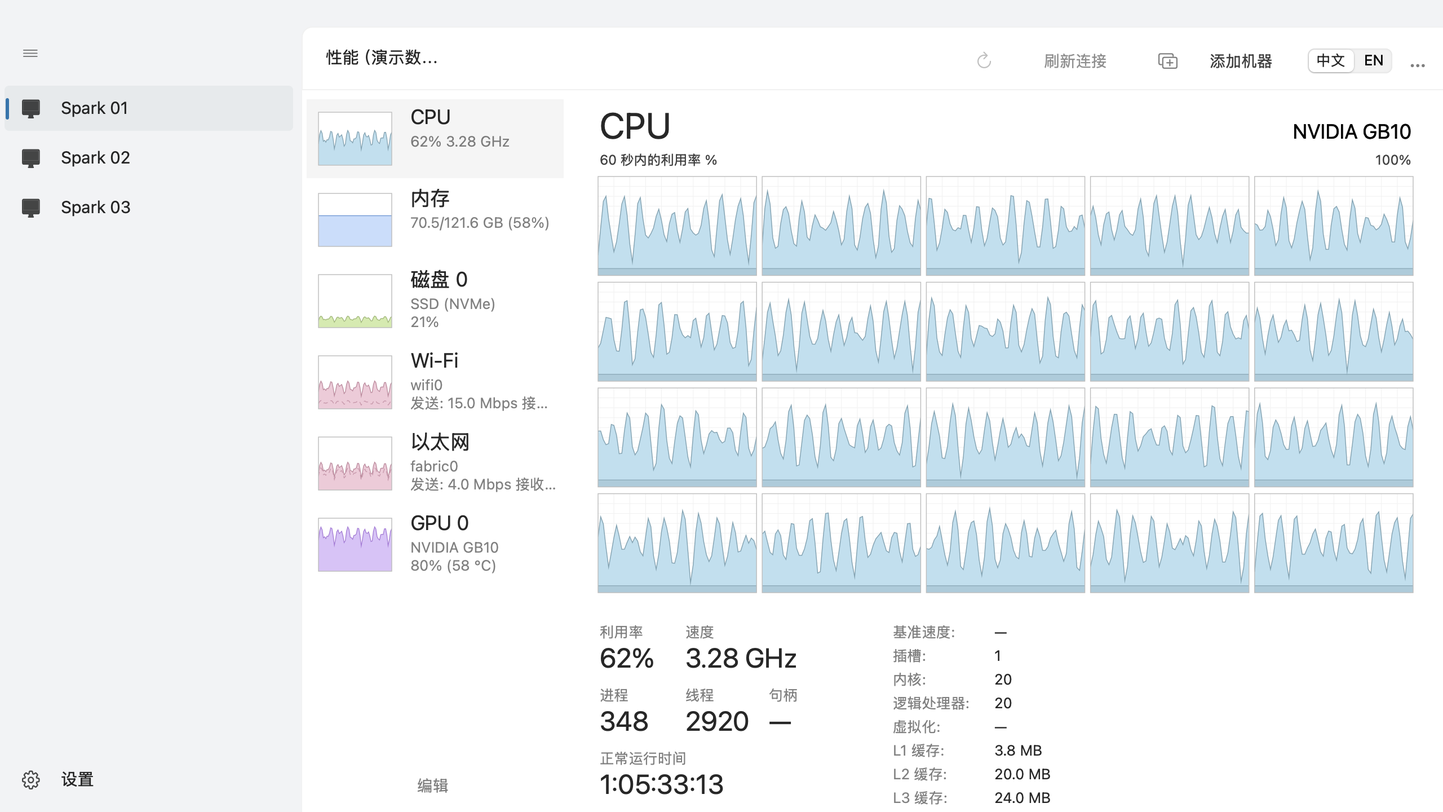
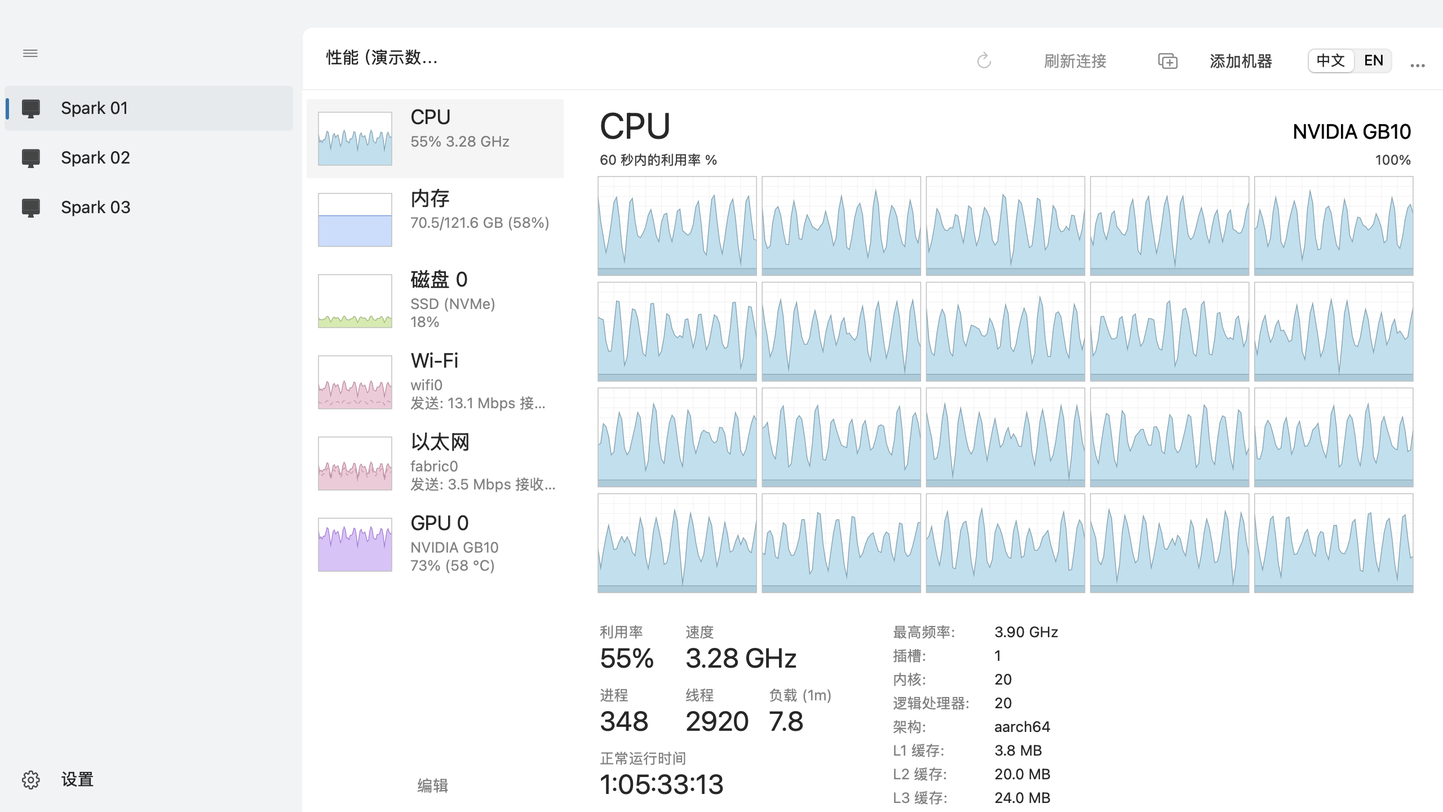
fix: show available native metrics instead of empty Windows fields

diff --git a/Sources/SparkMonitor/PerformancePane.swift b/Sources/SparkMonitor/PerformancePane.swift
@@ -54,14 +54,17 @@ import AppKit
     var windows: Bool { state.inventory?.platform == "windows" }
     var engineKeys: [String] {
         let reported = (selected?.metadata.keys.filter { $0.hasPrefix("engine:") } ?? []).sorted { (Int($0.dropFirst(7)) ?? 0) < (Int($1.dropFirst(7)) ?? 0) }
-        return windows && !reported.isEmpty ? reported : ["engine:3d", "engine:copy", "encoder", "decoder"]
+        return !reported.isEmpty ? reported : ["usage", "memoryActivity", "encoder", "decoder"]
     }
+    var gpuActivityCount: Int { localMac ? min(4, engineKeys.count) : 4 }
     func engineTitle(_ key: String) -> String {
-        if windows, let title = selected?.metadata[key] { return title }
-        return ["engine:3d": "3D", "engine:copy": "Copy", "encoder": "Video Encode", "decoder": "Video Decode"][key] ?? "—"
+        if let title = selected?.metadata[key] { return title }
+        return ["usage": tr("总体利用率", "GPU utilization"), "memoryActivity": tr("内存读写活动", "Memory activity"), "encoder": "Video Encode", "decoder": "Video Decode"][key] ?? "—"
     }
     var gpuMemoryFields: [String] {
         guard let device = selected, device.kind == .gpu else { return [] }
+        if localMac { return ["allocated"] }
+        if !windows { return [] }
         let dedicated = state.latest?.devices[device.id]?.value("dedicatedTotal")
             ?? Double(device.metadata["dedicatedTotal"] ?? "")
             ?? state.history.reversed().lazy.compactMap { $0.snapshot?.devices[device.id]?.value("dedicatedTotal") }.first
@@ -69,7 +72,7 @@ import AppKit
     }
     var selectedEngines: [String] {
         let saved = selected.flatMap { state.profile.gpuGraphs?[$0.id] } ?? []
-        return (0..<4).map { i in i < saved.count && engineKeys.contains(saved[i]) ? saved[i] : (i < engineKeys.count ? engineKeys[i] : "") }
+        return (0..<gpuActivityCount).map { i in i < saved.count && engineKeys.contains(saved[i]) ? saved[i] : (i < engineKeys.count ? engineKeys[i] : "") }
     }
     @objc func chooseEngine(_ menu: NSPopUpButton) {
         guard let id = selected?.id, let key = menu.selectedItem?.representedObject as? String else { return }
@@ -101,7 +104,7 @@ import AppKit
             chartTitles = []; chartScales = []; chartTimes = []; chartZeros = []
             if let device = selected {
                 let cores = Int(device.metadata["logicalProcessors"] ?? device.metadata["cores"] ?? "20") ?? 20
-                let count = device.kind == .cpu && state.profile.logicalCPU ? cores : device.kind == .disk ? 2 : device.kind == .gpu ? 4 + gpuMemoryFields.count : 1
+                let count = device.kind == .cpu && state.profile.logicalCPU ? cores : device.kind == .disk ? 2 : device.kind == .gpu ? gpuActivityCount + gpuMemoryFields.count : 1
                 for i in 0..<count {
                     let chart = ChartView(); chart.kind = device.kind; chart.color = Style.color(device.kind)
                     chart.stacked = device.kind == .cpu; chart.logical = state.profile.logicalCPU
@@ -118,7 +121,7 @@ import AppKit
                     scale.alignment = .right; zero.alignment = .right
                     [title, scale, time, zero].forEach(content.addSubview)
                     chartTitles.append(title); chartScales.append(scale); chartTimes.append(time); chartZeros.append(zero)
-                    if device.kind == .gpu && i < 4 {
+                    if device.kind == .gpu && i < gpuActivityCount {
                         let menu = NSPopUpButton(); menu.isBordered = false; menu.font = .systemFont(ofSize: 12)
                         menu.target = self; menu.action = #selector(chooseEngine(_:)); menu.tag = i
                         for key in engineKeys {
@@ -149,14 +152,16 @@ import AppKit
             switch d.kind {
             case .cpu: row.subtitle.stringValue = percent + " " + number(m?.value("frequency").map { $0 / 1000 }, " GHz", digits: 2)
             case .memory: row.subtitle.stringValue = memoryPair(m?.value("used"), m?.value("total")) + " (\(percent))"
-            case .disk: row.subtitle.stringValue = (d.metadata["type"] ?? "SSD (NVMe)") + "\n" + percent
+            case .disk:
+                let detail = localMac ? tr("读 ", "R ") + bytes(m?.value("read"), perSecond: true) + "\n" + tr("写 ", "W ") + bytes(m?.value("write"), perSecond: true) : (d.metadata["type"] ?? "SSD (NVMe)") + "\n" + percent
+                row.subtitle.stringValue = detail
             case .network:
                 row.subtitle.stringValue = d.name + "\n" + tr("发送: ", "S: ") + bitRate(m?.value("send")) + " " + tr("接收: ", "R: ") + bitRate(m?.value("receive"))
             case .gpu: row.subtitle.stringValue = d.model + "\n" + percent + (m?.value("temperature").map { " (" + number($0, " °C", digits: 0) + ")" } ?? "")
             }
-            let key = d.kind == .network ? "receive" : "usage"
-            row.chart.points = series(state, device: d, key: key, second: d.kind == .network ? "send" : nil)
-            row.chart.ceiling = d.kind == .network ? rateCeiling(row.chart.points, multiplier: 8) / 8 : 100
+            let key = d.kind == .network ? "receive" : (localMac && d.kind == .disk ? "read" : "usage")
+            row.chart.points = series(state, device: d, key: key, second: d.kind == .network ? "send" : (localMac && d.kind == .disk ? "write" : nil))
+            row.chart.ceiling = d.kind == .network ? rateCeiling(row.chart.points, multiplier: 8) / 8 : (localMac && d.kind == .disk ? rateCeiling(row.chart.points) : 100)
             row.chart.needsDisplay = true; row.needsDisplay = true
             row.setAccessibilityLabel(row.nameLabel.stringValue + ", " + row.subtitle.stringValue)
         }
@@ -182,36 +187,44 @@ import AppKit
                 case .disk: caption = i == 0 ? tr("活动时间", "Active time") : tr("磁盘传输速率", "Disk transfer rate"); if i == 1 { key = "read"; second = "write" }
                 case .network: key = "receive"; second = "send"; caption = tr("吞吐量", "Throughput")
                 case .gpu:
-                    if i < 4 {
+                    if i < gpuActivityCount {
                         key = selectedEngines[i]; caption = engineTitle(key)
                         let index = engineKeys.firstIndex(of: key) ?? -1
                         if engineMenus[i].indexOfSelectedItem != index { engineMenus[i].selectItem(at: index) }
                     } else {
-                        let field = gpuMemoryFields[i - 4]
-                        key = field + "Used"
-                        caption = field == "dedicated" ? tr("专用 GPU 内存使用量", "Dedicated GPU memory usage") : tr("共享 GPU 内存使用量", "Shared GPU memory usage")
+                        let field = gpuMemoryFields[i - gpuActivityCount]
+                        key = field == "allocated" ? field : field + "Used"
+                        caption = field == "allocated" ? tr("GPU 驱动内存", "GPU driver memory") : (field == "dedicated" ? tr("专用 GPU 内存使用量", "Dedicated GPU memory usage") : tr("共享 GPU 内存使用量", "Shared GPU memory usage"))
                     }
                 }
+                if localMac && d.kind == .disk && i == 0 { key = "operations"; caption = tr("磁盘活动（IOPS）", "Disk activity (IOPS)") }
                 let chartMetric = state.latest?.devices[d.id]
                 chart.points = series(state, device: d, key: key, second: second, core: chart.coreIndex)
-                let memoryChart = d.kind == .memory || (d.kind == .gpu && i >= 4)
+                let memoryChart = d.kind == .memory || (d.kind == .gpu && i >= gpuActivityCount)
                 chart.toolTip = chart.coreIndex.map { "CPU \($0)" }
                 if d.kind == .network {
                     chart.toolTip = tr("实线：接收；虚线：发送。", "Solid: receive; dashed: send.")
                 }
                 var capacity: Double?
                 if memoryChart {
-                    let capacityKey = d.kind == .gpu ? gpuMemoryFields[i - 4] + "Total" : "total"
-                    capacity = chartMetric?.value(capacityKey) ?? Double(d.metadata[capacityKey] ?? "")
-                        ?? state.history.reversed().lazy.compactMap { $0.snapshot?.devices[d.id]?.value(capacityKey) }.first
+                    if key == "allocated" {
+                        // The axis is a range for the observed allocation, not a claimed GPU memory limit.
+                        let peak = max(1_048_576, chart.points.compactMap(\.total).max() ?? 0)
+                        capacity = pow(2, ceil(log2(peak)))
+                    } else {
+                        let capacityKey = d.kind == .gpu ? gpuMemoryFields[i - gpuActivityCount] + "Total" : "total"
+                        capacity = chartMetric?.value(capacityKey) ?? Double(d.metadata[capacityKey] ?? "")
+                            ?? state.history.reversed().lazy.compactMap { $0.snapshot?.devices[d.id]?.value(capacityKey) }.first
+                    }
                     chart.ceiling = capacity ?? 1
                     if capacity == nil { chart.points = []; chart.unavailable = "—" }
                 }
                 else if d.kind == .network { chart.ceiling = rateCeiling(chart.points, multiplier: 8) / 8 }
-                else if d.kind == .disk && i == 1 { chart.ceiling = rateCeiling(chart.points) }
+                else if d.kind == .disk && (i == 1 || localMac) { chart.ceiling = rateCeiling(chart.points) }
                 else { chart.ceiling = 100 }
                 chartTitles[i].stringValue = caption
                 chartScales[i].stringValue = memoryChart ? bytes(capacity) : d.kind == .network ? bitRate(chart.ceiling) : d.kind == .disk && i == 1 ? bytes(chart.ceiling, perSecond: true) : d.kind == .gpu ? number(chartMetric?.value(key), "%", digits: 0) : "100%"
+                if localMac && d.kind == .disk && i == 0 { chartScales[i].stringValue = number(chart.ceiling, " IOPS", digits: 0) }
                 chartTimes[i].stringValue = tr("60 秒", "60 seconds")
                 let current = chart.coreIndex.flatMap { c in chartMetric?.cores?.first { ($0["index"] ?? nil) == Double(c) }?["usage"] ?? nil } ?? chartMetric?.value(key)
                 chart.setAccessibilityLabel((chart.coreIndex.map { "CPU \($0)" } ?? caption) + ", " + number(current))
@@ -259,19 +272,21 @@ import AppKit
         switch d.kind {
         case .cpu:
             stat(tr("利用率", "Utilization"), number(v("usage"), "%", digits: 0), x: 0, y: 0, w: 68)
-            stat(tr("速度", "Speed"), number(v("frequency").map { $0 / 1000 }, " GHz", digits: 2), x: 76, y: 0, w: 148)
+            stat(localMac ? tr("性能核速度", "P-core speed") : tr("速度", "Speed"), number(v("frequency").map { $0 / 1000 }, " GHz", digits: 2), x: 76, y: 0, w: 148)
             stat(tr("进程", "Processes"), number(v("processes"), digits: 0), x: 0, y: 56, w: 68)
             stat(tr("线程", "Threads"), number(v("threads"), digits: 0), x: 76, y: 56, w: 68)
-            stat(tr("句柄", "Handles"), number(v("handles"), digits: 0), x: 150, y: 56, w: 103)
+            if localMac { stat(tr("能效核速度", "E-core speed"), number(v("efficiencyFrequency").map { $0 / 1000 }, " GHz", digits: 2), x: 150, y: 56, w: 103) }
+            else { stat(windows ? tr("句柄", "Handles") : tr("负载 (1m)", "Load (1m)"), number(v(windows ? "handles" : "load"), digits: windows ? 0 : 1), x: 150, y: 56, w: 103) }
             let uptime = state.latest.map { Int($0.uptime) }
             let duration = uptime.map { String(format: "%d:%02d:%02d:%02d", $0 / 86400, $0 / 3600 % 24, $0 / 60 % 60, $0 % 60) } ?? "—"
             stat(tr("正常运行时间", "Up time"), duration, x: 0, y: 112, w: 225)
             factsX = 260
             let virtualization = d.metadata["virtualization"].map { $0.lowercased() == "true" ? tr("已启用", "Enabled") : tr("已禁用", "Disabled") } ?? "—"
-            facts = [(tr("基准速度", "Base speed"), number(d.metadata["baseFrequency"].flatMap(Double.init).map { $0 / 1000 }, " GHz", digits: 2)),
+            let frequencyKey = d.metadata["baseFrequency"] != nil ? "baseFrequency" : "maxFrequency"
+            facts = [(frequencyKey == "baseFrequency" ? tr("基准速度", "Base speed") : tr("最高频率", "Maximum clock"), number(d.metadata[frequencyKey].flatMap(Double.init).map { $0 / 1000 }, " GHz", digits: 2)),
                      (tr("插槽", "Sockets"), meta("sockets")), (tr("内核", "Cores"), meta("cores")),
                      (tr("逻辑处理器", "Logical processors"), d.metadata["logicalProcessors"] ?? meta("cores")),
-                     (tr("虚拟化", "Virtualization"), virtualization)]
+                     (d.metadata["virtualization"] != nil ? tr("虚拟化", "Virtualization") : tr("架构", "Architecture"), d.metadata["virtualization"] != nil ? virtualization : meta("architecture"))]
             for level in 1...3 where d.metadata["cacheL\(level)"] != nil {
                 facts.append(("L\(level) " + tr("缓存", "cache"), bytes(d.metadata["cacheL\(level)"].flatMap(Double.init))))
             }
@@ -279,23 +294,31 @@ import AppKit
             let compressed = v("compressed")
             stat(compressed == nil ? tr("使用中", "In use") : tr("使用中（已压缩）", "In use (Compressed)"), bytes(v("used")) + (compressed.map { " (" + bytes($0) + ")" } ?? ""), x: 0, y: 0, w: 195)
             stat(tr("可用", "Available"), bytes(v("available")), x: 196, y: 0, w: 120)
-            stat(tr("已提交", "Committed"), memoryPair(v("committed"), v("commitLimit")), x: 0, y: 56, w: 180)
+            stat(localMac ? tr("App 内存", "App memory") : tr("已提交", "Committed"), localMac ? bytes(v("app")) : memoryPair(v("committed"), v("commitLimit")), x: 0, y: 56, w: 180)
             stat(tr("已缓存", "Cached"), bytes(v("cached")), x: 196, y: 56, w: 120)
-            stat(tr("分页池", "Paged pool"), bytes(v("paged")), x: 0, y: 112, w: 180)
-            stat(tr("非分页池", "Non-paged pool"), bytes(v("nonpaged")), x: 136, y: 112, w: 155)
+            stat(windows ? tr("分页池", "Paged pool") : (localMac ? tr("联动内存", "Wired memory") : tr("已用 Swap", "Swap used")), bytes(v(windows ? "paged" : (localMac ? "wired" : "swapUsed"))), x: 0, y: 112, w: 180)
+            stat(windows ? tr("非分页池", "Non-paged pool") : (localMac ? tr("已用 Swap", "Swap used") : tr("Swap 总量", "Swap total")), bytes(v(windows ? "nonpaged" : (localMac ? "swapUsed" : "swapTotal"))), x: 196, y: 112, w: 120)
             factsX = 320; keyWidth = zh ? 126 : 153
             facts = [(tr("速度", "Speed"), d.metadata["speed"].map { $0 + " MT/s" } ?? "—"), (tr("已使用的插槽", "Slots used"), meta("slots")),
                      (tr("外形规格", "Form factor"), meta("form") == "Other" ? tr("其他", "Other") : meta("form")),
                      (tr("为硬件保留的内存", "Hardware reserved"), bytes(v("reserved")))]
+            if localMac {
+                facts = [(tr("内存架构", "Memory model"), tr("统一内存", "Unified memory")),
+                         (tr("可清除内存", "Purgeable"), bytes(v("purgeable"))), (tr("Swap 总量", "Swap total"), bytes(v("swapTotal")))]
+            } else if !windows {
+                facts = [(tr("类型", "Type"), d.model), (tr("内核缓存", "Kernel slab"), bytes(v("slab"))),
+                         (tr("可回收内核缓存", "Reclaimable slab"), bytes(v("reclaimable"))), (tr("共享页", "Shared pages"), bytes(v("shared"))), (tr("待写回", "Dirty pages"), bytes(v("dirty")))]
+            }
         case .disk:
-            stat(tr("活动时间", "Active time"), number(v("usage"), "%", digits: 0), x: 0, y: 0, w: 76)
-            stat(tr("平均响应时间", "Average response time"), number(v("latency"), tr(" 毫秒", " ms")), x: 78, y: 0, w: 194)
+            stat(localMac ? tr("每秒操作数", "IOPS") : tr("活动时间", "Active time"), localMac ? number(v("operations"), digits: 0) : number(v("usage"), "%", digits: 0), x: 0, y: 0, w: localMac ? 112 : 76)
+            stat(tr("平均响应时间", "Average response time"), number(v("latency"), tr(" 毫秒", " ms")), x: localMac ? 120 : 78, y: 0, w: 194)
             stat(tr("读取速度", "Read speed"), bytes(v("read"), perSecond: true), x: 8, y: 56, w: 151)
             stat(tr("写入速度", "Write speed"), bytes(v("write"), perSecond: true), x: 167, y: 56, w: 150)
             factsX = 315; keyWidth = zh ? 86 : 116
             facts = [(tr("容量", "Capacity"), bytes(v("capacity"))), (tr("已格式化", "Formatted"), bytes(v("total"))),
                      (tr("系统磁盘", "System disk"), d.metadata["system"].map { $0 == "true" ? tr("是", "Yes") : tr("否", "No") } ?? "—"),
                      (tr("页面文件", "Page file"), d.metadata["pagefile"].map { $0 == "true" ? tr("是", "Yes") : tr("否", "No") } ?? "—"), (tr("类型", "Type"), meta("type"))]
+            if !windows { facts.removeAll { $0.0 == tr("页面文件", "Page file") }; facts.append((tr("可用空间", "Available space"), bytes(v("free")))) }
         case .network:
             stat(tr("发送", "Send"), bitRate(v("send")), x: 8, y: 0, w: 136)
             stat(tr("接收", "Receive"), bitRate(v("receive")), x: 8, y: 56, w: 136)
@@ -315,12 +338,15 @@ import AppKit
                 let total = v("dedicatedTotal").flatMap { a in v("sharedTotal").map { a + $0 } }
                 stat(tr("GPU 内存", "GPU memory"), memoryPair(used, total), x: 0, y: 56, w: 158)
             }
-            stat(tr("共享 GPU 内存", "Shared GPU memory"), memoryPair(v("sharedUsed"), v("sharedTotal")), x: 160, y: dedicated ? 56 : 0, w: 195)
+            if localMac { stat(tr("GPU 驱动内存", "GPU driver memory"), bytes(v("allocated")), x: 160, y: 0, w: 195) }
+            else if gpuMemoryFields.contains("shared") { stat(tr("共享 GPU 内存", "Shared GPU memory"), memoryPair(v("sharedUsed"), v("sharedTotal")), x: 160, y: dedicated ? 56 : 0, w: 195) }
             if let temperature = v("temperature") { stat(tr("GPU 温度", "GPU temperature"), number(temperature, " °C", digits: 0), x: 0, y: dedicated ? 112 : 56, w: 155) }
             factsX = 363; keyWidth = zh ? 103 : 110
             facts = [(tr("驱动版本", "Driver version"), localMac ? "—" : meta("driver")), (tr("驱动日期", "Driver date"), meta("driverDate")),
                      (tr("DirectX 版本", "DirectX version"), meta("directX")), (tr("物理位置", "Physical location"), meta("pci"))]
+            if localMac { facts = [(tr("GPU 核心", "GPU cores"), meta("cores")), (tr("内存架构", "Memory model"), tr("CPU / GPU 共享", "CPU / GPU shared")), (tr("驱动", "Driver"), meta("driver"))] }
         }
+        facts.removeAll { $0.1 == "—" || $0.1.isEmpty }
         for (i, fact) in facts.enumerated() {
             let title = add(fact.0 + ":", x: factsX, y: CGFloat(i) * 21, w: keyWidth, secondary: true)
             let value = add(fact.1, x: factsX + keyWidth + 4, y: CGFloat(i) * 21, w: max(50, width - factsX - keyWidth - 4))
@@ -380,10 +406,11 @@ import AppKit
         case .gpu:
             let half = (w - 10) / 2
             let gpuTop = top + 8
-            let graphHeight = gpuMemoryFields.count == 2 ? (h - 372) / 4 : (h - 340) / 3
-            frames = (0..<4).map { NSRect(x: CGFloat($0 % 2) * (half + 10), y: gpuTop + CGFloat($0 / 2) * (graphHeight + 32), width: half, height: graphHeight) }
-            frames.append(NSRect(x: 0, y: gpuTop + 2 * (graphHeight + 32), width: w, height: graphHeight))
-            if gpuMemoryFields.count == 2 { frames.append(NSRect(x: 0, y: frames[4].maxY + 32, width: w, height: graphHeight)) }
+            let graphHeight = (h - (gpuMemoryFields.count == 2 ? 372 : 340)) / CGFloat(2 + gpuMemoryFields.count)
+            frames = (0..<gpuActivityCount).map { NSRect(x: CGFloat($0 % 2) * (half + 10), y: gpuTop + CGFloat($0 / 2) * (graphHeight + 32), width: half, height: graphHeight) }
+            for index in gpuMemoryFields.indices {
+                frames.append(NSRect(x: 0, y: gpuTop + CGFloat(2 + index) * (graphHeight + 32), width: w, height: graphHeight))
+            }
             newStatsTop = frames.last!.maxY + 28
         default: break
         }
@@ -393,7 +420,7 @@ import AppKit
             chart.frame = frames[i]
             let title = chartTitles[i], scale = chartScales[i], time = chartTimes[i], zero = chartZeros[i]
             let logical = kind == .cpu && state.profile.logicalCPU
-            title.isHidden = (logical && i != 0) || (kind == .gpu && i < 4); scale.isHidden = logical && i != charts.count - 1
+            title.isHidden = (logical && i != 0) || (kind == .gpu && i < gpuActivityCount); scale.isHidden = logical && i != charts.count - 1
             if logical {
                 title.frame = NSRect(x: 0, y: top - 22, width: w * 0.7, height: 19)
                 scale.frame = NSRect(x: w * 0.7, y: top - 22, width: w * 0.3, height: 19)

diff --git a/Sources/SparkMonitor/LocalMacCollector.swift b/Sources/SparkMonitor/LocalMacCollector.swift
@@ -152,7 +152,20 @@ import CoreWLAN
             let pidCount = pids.withUnsafeMutableBytes { proc_listallpids($0.baseAddress, Int32($0.count)) }
             if pidCount >= 0 { cpuValues["processes"] = Double(pidCount) }
         }
+        var processorSet: processor_set_name_t = 0
+        if processor_set_default(hostPort, &processorSet) == KERN_SUCCESS {
+            defer { mach_port_deallocate(mach_task_self_, processorSet) }
+            var load = processor_set_load_info_data_t()
+            var loadCount = mach_msg_type_number_t(MemoryLayout<processor_set_load_info_data_t>.size / MemoryLayout<integer_t>.size)
+            let result = withUnsafeMutablePointer(to: &load) { pointer in
+                pointer.withMemoryRebound(to: integer_t.self, capacity: Int(loadCount)) {
+                    processor_set_statistics(processorSet, PROCESSOR_SET_LOAD_INFO, $0, &loadCount)
+                }
+            }
+            if result == KERN_SUCCESS { cpuValues["threads"] = Double(load.thread_count) }
+        }
         var cpuMeta = ["architecture": sysString("hw.machine"), "cores": String(Int(sysNumber("hw.physicalcpu") ?? Double(count))), "logicalProcessors": String(count), "sockets": "1"]
+        if let available = sysNumber("kern.hv_support") { cpuMeta["virtualization"] = String(available != 0) }
         for (key, name) in [("performanceCores", "hw.perflevel0.physicalcpu"), ("efficiencyCores", "hw.perflevel1.physicalcpu")] {
             if let n = sysNumber(name) { cpuMeta[key] = String(Int(n)) }
         }
@@ -202,6 +215,13 @@ import CoreWLAN
 
         services("IOBlockStorageDriver") { driver in
             guard let raw = property(driver, "Statistics") as? [String: NSNumber] else { return }
+            var virtual = false
+            var provider: io_registry_entry_t = 0
+            if IORegistryEntryGetParentEntry(driver, kIOServicePlane, &provider) == KERN_SUCCESS {
+                defer { IOObjectRelease(provider) }
+                let protocolInfo = property(provider, "Protocol Characteristics") as? [String: Any]
+                virtual = protocolInfo?["Physical Interconnect"] as? String == "Virtual Interface"
+            }
             var child: io_iterator_t = 0
             guard IORegistryEntryGetChildIterator(driver, kIOServicePlane, &child) == KERN_SUCCESS else { return }
             defer { IOObjectRelease(child) }
@@ -216,9 +236,9 @@ import CoreWLAN
                 var values: [String: Double?] = ["capacity": (property(media, "Size") as? NSNumber)?.doubleValue,
                     "read": rate(id, "Bytes (Read)", current, elapsed), "write": rate(id, "Bytes (Write)", current, elapsed)]
                 // IOStorage request service times overlap and are not disk busy time.
-                if let readOps = rate(id, "Operations (Read)", current, elapsed), let writeOps = rate(id, "Operations (Write)", current, elapsed), readOps + writeOps > 0,
+                if let readOps = rate(id, "Operations (Read)", current, elapsed), let writeOps = rate(id, "Operations (Write)", current, elapsed),
                    let readTime = rate(id, "Total Time (Read)", current, elapsed), let writeTime = rate(id, "Total Time (Write)", current, elapsed) {
-                    values["latency"] = (readTime + writeTime) / (readOps + writeOps) / 1_000_000
+                    values["latency"] = readOps + writeOps > 0 ? (readTime + writeTime) / (readOps + writeOps) / 1_000_000 : 0
                 }
                 if let reads = rate(id, "Operations (Read)", current, elapsed), let writes = rate(id, "Operations (Write)", current, elapsed) {
                     values["operations"] = reads + writes
@@ -229,7 +249,7 @@ import CoreWLAN
                     values["free"] = space.volumeAvailableCapacity.map(Double.init)
                 }
                 devices.append(HardwareDevice(id: id, kind: .disk, name: bsd, model: String(cString: name), defaultVisible: true,
-                    metadata: ["type": system ? "SSD (APFS)" : "Storage", "system": String(system), "index": String(devices.filter { $0.kind == .disk }.count)]))
+                    metadata: ["type": virtual ? "Disk image" : (system ? "SSD (APFS)" : "Storage"), "system": String(system), "index": String(devices.filter { $0.kind == .disk }.count)]))
                 metrics[id] = DeviceMetrics(values: values)
             }
         }
@@ -312,7 +332,7 @@ import CoreWLAN
                 "engine:2": stats["Tiler Utilization %"]?.doubleValue,
                 "renderer": stats["Renderer Utilization %"]?.doubleValue, "tiler": stats["Tiler Utilization %"]?.doubleValue,
                 "allocated": stats["In use system memory"]?.doubleValue]
-            let meta = ["engine:0": "GPU", "engine:1": "Renderer", "engine:2": "Tiler", "engine:3": "Video (unavailable)", "driver": property(gpu, "CFBundleIdentifier") as? String ?? "", "cores": (property(gpu, "gpu-core-count") as? NSNumber)?.stringValue ?? ""]
+            let meta = ["engine:0": "GPU", "engine:1": "Renderer", "engine:2": "Tiler", "driver": property(gpu, "CFBundleIdentifier") as? String ?? "", "cores": (property(gpu, "gpu-core-count") as? NSNumber)?.stringValue ?? ""]
             devices.append(HardwareDevice(id: id, kind: .gpu, name: "GPU", model: property(gpu, "model") as? String ?? "Apple GPU", defaultVisible: true, metadata: meta))
             metrics[id] = DeviceMetrics(values: values)
         }

diff --git a/Tests/SparkMonitorTests/ModelTests.swift b/Tests/SparkMonitorTests/ModelTests.swift
@@ -55,7 +55,7 @@ struct ModelTests {
         #expect(pane.detailScroll.contentView.bounds.origin.y == before)
         #expect(pane.details.first!.0 === field)
         pane.frame.size.height = 1000; pane.layoutSubtreeIfNeeded()
-        #expect(pane.charts.count == 5)
+        #expect(pane.charts.count == 4)
         #expect(pane.charts[0].frame.height > graphHeight)
         #expect(pane.details.allSatisfy { $0.0.frame.maxY <= pane.content.bounds.height })
     }

diff --git a/docs/metrics.md b/docs/metrics.md
@@ -2,7 +2,7 @@
 
 All reads are unprivileged. Null means unavailable; it is never converted to zero. Charts have a 60-second timestamp axis anchored to the latest received sample; redraws do not scroll ahead of the data and a retained boundary sample is clipped at the left edge; rates use remote monotonic elapsed time.
 
-The native app uses Windows Task Manager's Performance-page layout and fields for every host. A field without an equivalent source stays unavailable. Network pages show one interface-throughput chart; RDMA has no additional chart or detail rows. CPU/disk temperatures, power, load, IOPS and OS-specific memory breakdowns are not added to these pages.
+The native app keeps Windows Task Manager's Performance-page appearance and arrangement, using the actual metrics each host provides. Labels identify substitutions: Mac disks show read/write rates and IOPS, Mac memory uses App/Wired/Swap, and GPU graphs use the driver's own activity names. Metadata without a reading is omitted. Network pages retain one interface-throughput chart; RDMA has no additional chart or detail rows.
 
 | Metric | Source and calculation |
 |---|---|
@@ -26,7 +26,7 @@ Counter resets or the initial baseline yield unavailable rates. Broken streams r
 
 CPU process/thread counts are Linux process and schedulable-task counts; cache sizes are summed over distinct sysfs shared-cache groups. Disk response time is the read/write time delta divided by completed operations. Network graph labels use decimal bits per second. Memory/disk labels follow Task Manager's KB/MB/GB notation with 1,024-based scaling.
 
-GPU pages use four engine charts and dedicated/shared GPU-memory charts. Devices without dedicated memory have only the shared-memory chart. Overall utilization remains a separate statistic; it is not substituted for 3D or Copy activity. Only GPU-specific allocations can populate the memory charts. Whole-system RAM use is shown on the Memory page. Missing engine readings and GPU-memory limits remain unavailable; Windows' half-RAM shared-memory limit is not imposed on other operating systems.
+Windows GPU pages retain their engine charts and measured dedicated/shared allocations. Spark graphs use the NVIDIA driver's overall, memory-activity, encoder and decoder readings. Mac graphs use Device, Renderer and Tiler activity plus driver-wide allocated system memory. The Mac allocation chart scales to its observed range; its axis is not a hard allocation limit. Whole-system RAM use stays on the Memory page.
 
 Network metadata comes from NetworkManager (`nmcli device show`) and sysfs. Wi-Fi SSID, signal in dBm, radio frequency and actual Rx/Tx negotiated rates come from `iw dev <interface> link` without scanning or changing connections. The Wi-Fi protocol is derived from the active link's EHT/HE/VHT/MCS report, not the adapter's advertised maximum. SSID, DNS suffix/server and MAC are refreshed with inventory every 30 seconds; signal and negotiated rates update each sample. A DNS suffix and DNS server address are separate fields. IPv6 includes link-local addresses. An unconfigured DNS field remains unavailable.
 
@@ -63,7 +63,9 @@ remain unchanged; local hardware visibility/order and CPU chart mode persist.
   active frequency and show unavailable rather than an invented minimum.
   IOReport is a private system API and requires no elevated helper.
 - CPU process count uses the filled PID enumeration, rather than its buffer-size
-  estimate. Cache totals sum all performance/efficiency core groups: L1 includes
+  estimate. Live thread count comes from `PROCESSOR_SET_LOAD_INFO`; virtualization
+  availability comes from `kern.hv_support`. Peak DVFS frequency is labelled
+  maximum clock, not base speed. Cache totals sum all performance/efficiency core groups: L1 includes
   instruction and data caches per core; shared L2/L3 is counted once per group.
   Uptime and sampling intervals use the monotonic raw clock, which includes sleep.
 - Memory: estimated app pages = internal − purgeable, bounded at zero;
@@ -71,20 +73,22 @@ remain unchanged; local hardware visibility/order and CPU chart mode persist.
   remainder of physical RAM, not Linux MemAvailable. Swap is reported by sysctl.
 - Physical disks: IOBlockStorageDriver read/write byte deltas and mean request
   service time. Busy percentage is deliberately not derived by summing overlapping
-  requests. The standard active-time chart stays unavailable; the lower chart shows read/write throughput.
+  requests. The upper chart shows completed operations per second (IOPS); the
+  lower chart and sidebar show read/write throughput. Mean response time is zero
+  for a valid interval with no completed operations. Virtual disk images are labelled separately.
   A one-time built-in diskutil query identifies the system APFS physical store,
   so its capacity and formatted size appear on the corresponding disk page.
 - Network: 64-bit `NET_RT_IFLIST2` interface counters and link speed, with byte
   deltas divided by actual sample duration. Physical active
   interfaces appear by default; virtual interfaces are available in Edit.
   macOS may withhold Wi-Fi SSID without location permission; no permission is requested.
-- GPU: IOKit Device utilization supplies the overall statistic. Its Renderer/Tiler
-  and allocation counters are retained by the sampler but are not relabelled as
-  WDDM engine or shared-memory readings. The corresponding chart values remain
-  unavailable until equivalent measurements are exposed.
+- GPU: IOKit Device/Renderer/Tiler counters populate the activity charts under
+  their original names. `In use system memory` supplies the GPU driver-memory
+  reading. Neither per-process Metal allocations nor its recommended working-set
+  size is substituted for a global hard limit.
 
 Memory charts retain their last known capacity when disconnected. Historical
 samples keep the same scale while current readings remain unavailable.
 
-本机固定显示在机器列表首位。各页沿用 Windows 任务管理器的布局和字段；取不到对应数值时显示 `—`。
-统一内存设备使用共享 GPU 内存栏，不拿整机内存用量代替 GPU 用量。
+本机固定显示在机器列表首位。保留 Windows 任务管理器外观，使用系统实际提供的指标并按实际含义标注。
+Mac 磁盘显示读写速度和 IOPS；GPU 显示驱动活动与内存用量。采样尚未建立基线或连接中断时保留空值。

diff --git a/README.md b/README.md
@@ -30,7 +30,7 @@ A native Swift/AppKit macOS performance monitor for NVIDIA DGX Spark and Windows
 
 ### 指标说明
 
-各性能页按同一硬件运行 Windows 时的任务管理器布局呈现。统一内存设备使用共享 GPU 内存栏；没有对应数据的字段显示 `—`。完整口径见 [metrics.md](docs/metrics.md)。
+各性能页保留 Windows 任务管理器的外观和排列，使用设备实际提供的指标。Mac 磁盘显示读写速度和 IOPS；GPU 显示驱动提供的活动和内存读数。完整口径见 [metrics.md](docs/metrics.md)。
 
 ### Windows 远端
 
@@ -58,7 +58,7 @@ Preview archives are ad-hoc signed, **not notarized**. Use macOS's normal Privac
 
 Windows 11 needs its built-in OpenSSH Server enabled and working SSH authentication. No Python, CPU-Z, HWiNFO, additional .NET runtime or monitoring service is installed. Built-in PowerShell 5.1 compiles the small included C# system-API declarations. A temporary sampler is uploaded to the account's default TEMP directory and deleted before execution.
 
-Windows pages use actual processor/thread counts, handle counts, memory pools, drive letters and WDDM GPU engines. Each of the four GPU graphs has an engine selector. Dedicated/shared GPU memory comes from DXGI and performance counters. The same Task Manager layout is used on other hosts, with unavailable readings shown as `—`. CPU temperature and power fields are omitted; compressed-memory size is not yet collected on Windows.
+Windows pages use actual processor/thread counts, handle counts, memory pools, drive letters and WDDM GPU engines. Each of the four GPU graphs has an engine selector. Dedicated/shared GPU memory comes from DXGI and performance counters. Other hosts keep the Task Manager appearance while showing their available metrics under accurate labels. CPU temperature and power fields are omitted; compressed-memory size is not yet collected on Windows.
 
 ## Build / 构建
 
